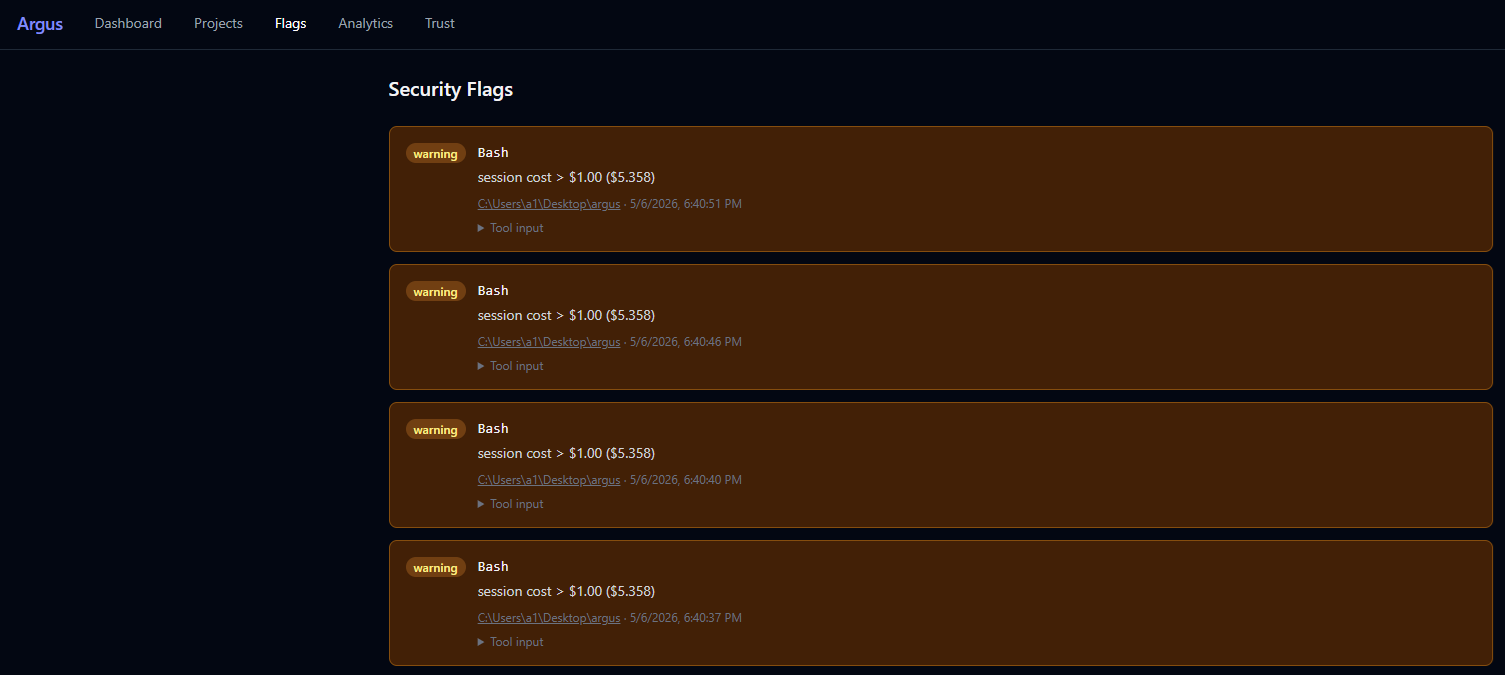
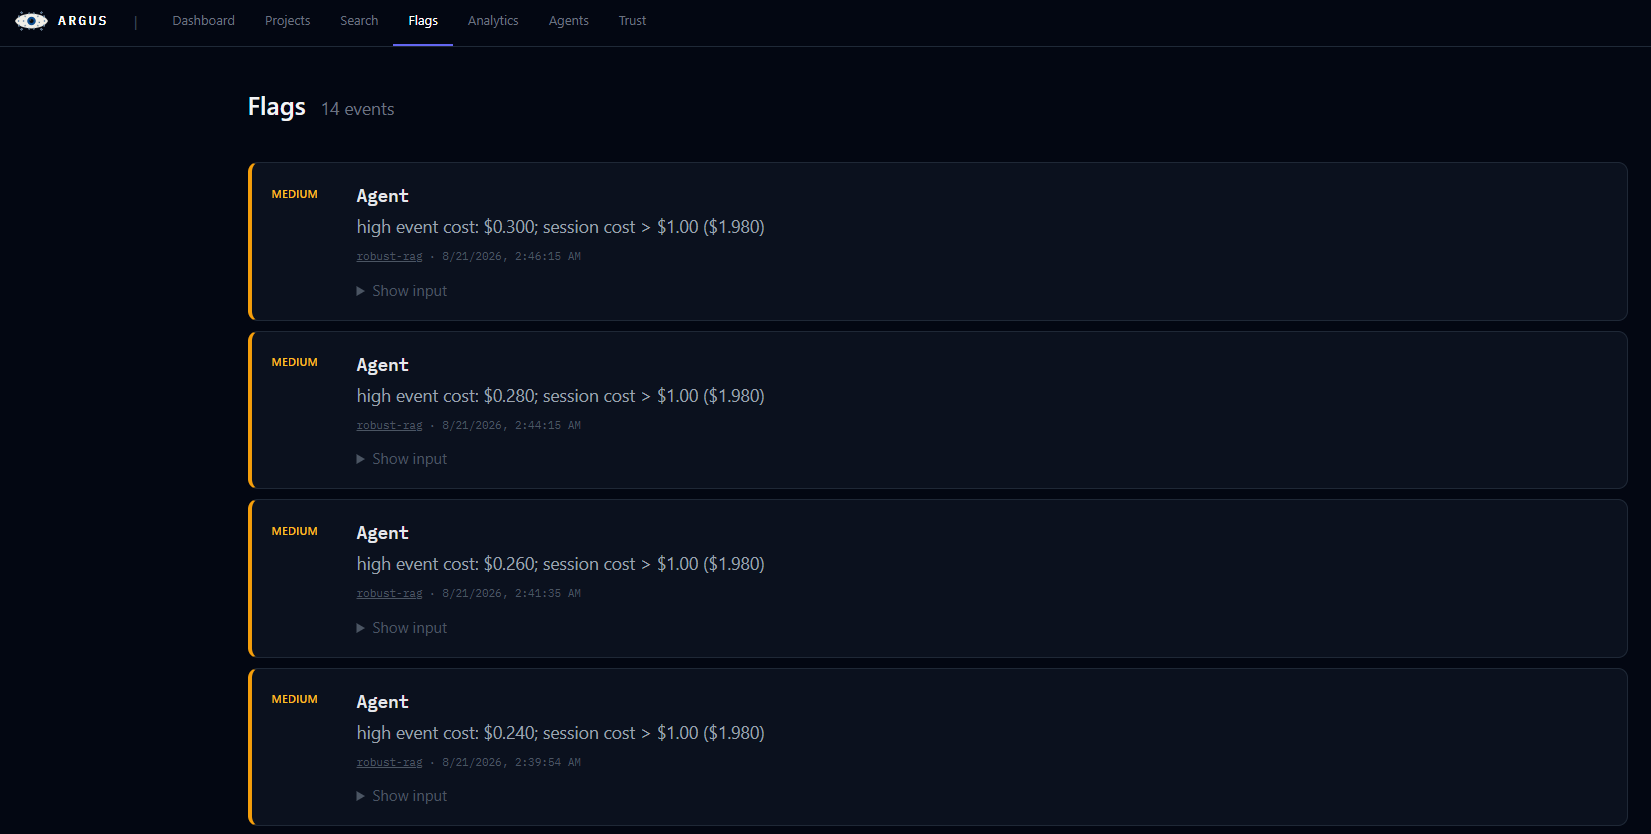
Refresh the README screenshots and document AQL
Replaces the screenshot set with current captures (dashboard, search, flags,
projects, analytics, agents, trust) and drops the stale ones — usage.png,
sessiondet.png, suggestions.png, config.png and compare.png, whose features
are now listed in text.

Adds a full AQL reference: search terms, field aliases, severity ranking, time
offsets, pipeline commands, worked examples, and the API surface. Rewrites the
flag-rules table with the real severities, and updates Quickstart for
single-process serving plus the demo database.

Claude-Session: https://claude.ai/code/session_01YZFCXMCgXthyavM5CpMp4M

diff --git a/README.md b/README.md
@@ -19,54 +19,45 @@ Argus is built for developers using Claude Code who want to know exactly what th
 ## Screenshots
 
 ### Dashboard
-Session list with per-session cost, token counts, trust scores, skill usage pills, and flagged event counts.
+Session list with per-session cost, token counts, trust scores, and flagged event counts.
 
 ![Dashboard](dashboard.png)
 
-### Projects
-All projects grouped from sessions, each showing aggregated cost, tokens, flags, trust score, and skills used.
+### Search
+Query agent telemetry with [AQL](#aql--the-argus-query-language), a pipe-based search language. Severity-coloured results, one-click example queries, and a built-in field reference.
 
-![Projects](projects.png)
+![Search](search.png)
 
 ### Security Flags
 Every flagged event across all sessions with severity, tool, reason, and a drill-down to the full tool input.
 
 ![Flags](flags.png)
 
+### Projects
+All projects grouped from sessions, each showing aggregated cost, tokens, flags, and trust score.
+
+![Projects](projects.png)
+
 ### Usage Analytics
 Horizontal bar charts for top tools, hooks fired, agent types spawned, skills invoked, and top bash commands.
 
-![Analytics](usage.png)
+![Analytics](analytics.png)
+
+### Agents
+Per-agent-type breakdown: total invocations, sessions spawned, spawn cost, and recent invocation prompts.
+
+![Agents](agents.png)
 
 ### Trust Scoring
 Per-session trust scores broken down into Safety, Behavior, and Economy components, with sortable columns.
 
 ![Trust Scoring](trust.png)
 
-### Session Detail
-Collapsible trace tree with session header (cost, trust score, token counts), agent → tool call hierarchy, and expandable before/after diffs with full JSON input/output.
-
-![Session Detail](sessiondet.png)
-
-### Agents
-Per-agent-type breakdown: total invocations, sessions spawned, spawn cost, and recent invocation prompts — grouped by agent type.
-
-![Agents](agents.png)
-
-### Project Suggestions
-LLM-enhanced optimization suggestions derived from session patterns — priority-ranked cards with actionable recommendations and copyable config snippets.
-
-![Suggestions](suggestions.png)
-
-### .claude Config Analyzer
-Cross-references registered hooks against hooks actually fired in sessions, surfaces CLAUDE.md observations, and shows global settings and custom commands.
-
-![.claude Config](config.png)
-
-### Session Comparison
-Side-by-side metric table (cost, events, flags, tokens, duration, trust) for two sessions with an overlaid cumulative cost chart.
-
-![Session Comparison](compare.png)
+### Also in the UI
+- **Session Detail** — collapsible trace tree, agent → tool call hierarchy, expandable JSON input/output, live SSE feed for active sessions
+- **Project Suggestions** — LLM-enhanced optimization suggestions derived from session patterns
+- **.claude Config Analyzer** — registered hooks cross-referenced against hooks actually fired
+- **Session Comparison** — side-by-side metrics with an overlaid cumulative cost chart
 
 ## Why
 
@@ -152,13 +143,23 @@ Event
 
 ### Flag rules
 
-| Pattern | Severity |
+Every rule carries a severity, so the flag feed can be triaged like an alert
+list rather than read as an undifferentiated pile of booleans. An event that
+trips several rules reports all of them and takes the highest severity.
+
+| Rule | Severity |
 |---|---|
-| Bash: `sudo`, `rm -rf`, `curl \| bash`, `chmod 777` | warning / critical |
-| Write outside project directory | warning |
-| Subagent with no parent session | info |
-| Single event cost > $0.10 | warning |
-| Session cost > $1.00 | warning |
+| Pipe to shell — `curl`/`wget` piped into `sh`/`bash`/`zsh`, with or without `sudo` | `critical` |
+| `dd if=… of=/dev/…`, or a redirect to `/dev/sd*` | `critical` |
+| Bash: `rm -rf` | `high` |
+| Bash: `chmod 777` (including `chmod -R 777`) | `high` |
+| Write or Edit outside the project directory | `high` |
+| Bash: `sudo` | `medium` |
+| Session cost > $1.00 | `medium` |
+| Single event cost > $0.10 | `low` |
+| Subagent spawned with no parent session | `info` |
+
+Query them with [AQL](#aql--the-argus-query-language): `severity>=high | table timestamp tool_name flag_reason`.
 
 ### Trust scoring
 
@@ -195,11 +196,132 @@ LLM enhancement via OpenRouter (`baidu/cobuddy:free`) is live — copy `.env.exa
 /projects/detail       Project detail — Sessions | Suggestions | .claude Config tabs
 /sessions/:id          Session trace tree + live SSE feed for active sessions + Suggestions tab
 /compare               Side-by-side session comparison with overlaid cost timeline
+/search                AQL search — query events by field, severity, time; stats and tables
 /flags                 Security feed — all flagged events with reason and severity
 /analytics             Usage Analytics — bar charts for tools, hooks, agents, skills, commands
 /agents                Agent activity — per-agent-type invocation counts, sessions, and recent prompts
 /trust                 Trust scoring — per-session Safety / Behavior / Economy breakdown
 ```
+
+## AQL — the Argus Query Language
+
+Agent telemetry deserves to be searched, not just browsed. AQL is a pipe-based
+query language in the shape of Splunk's SPL, but with the vocabulary of agent
+sessions: tools, subagents, skills, token cost, and flag reasons.
+
+```
+tool=Bash severity>=high | table timestamp command flag_reason
+tool=Agent | stats sum(cost_usd) as spend, count by agent_type | sort -spend
+"rm -rf" earliest=-24h
+NOT tool=Read | stats count by tool
+| stats sum(cost_usd) as cost by session | sort -cost | head 10
+```
+
+### Search terms
+
+A query is a list of terms, ANDed together, optionally followed by pipeline
+commands.
+
+| Form | Example | Meaning |
+|---|---|---|
+| `field=value` | `tool=Bash` | equals (case-insensitive) |
+| `field!=value` | `tool!=Read` | not equals |
+| `field>value` | `cost>0.10` | numeric / severity / time comparison (`>`, `<`, `>=`, `<=`) |
+| `field~value` | `reason~outside` | contains |
+| `field=val*` | `command=git*` | wildcard, `*` anywhere in the value |
+| `bareword` | `npm` | full-text across tool name, command, input, output, flag reason |
+| `"quoted phrase"` | `"rm -rf build"` | full-text, spaces preserved |
+| `NOT term` | `NOT tool=Read` | negation |
+| `flagged=true` | | booleans take `true` / `false` |
+
+`OR` is not supported yet; terms are ANDed.
+
+### Fields
+
+Canonical names come from the event row. These aliases are shorthand:
+
+| Alias | Field |
+|---|---|
+| `tool` | `tool_name` |
+| `agent` | `agent_type` |
+| `skill` | `skill_name` |
+| `session` | `session_id` |
+| `cost` | `cost_usd` |
+| `reason`, `rule` | `flag_reason` |
+| `project` | project directory name |
+| `status` | parent session status |
+| `event` | `type` |
+| `hook` | `hook_event_name` |
+
+Also queryable: `severity`, `flagged`, `timestamp`, `command`, `tool_input`,
+`tool_output`, `input_tokens`, `output_tokens`, `duration_ms`, `trust_score`.
+
+### Severity
+
+`info` < `low` < `medium` < `high` < `critical`, compared **by rank, not
+alphabetically** — `severity>=high` matches high and critical, and
+`sort -severity` puts critical on top. Severity is set by whichever rule fired:
+pipe-to-shell is `critical`, a write outside the project is `high`, cost rules
+are `low`/`medium`.
+
+### Time
+
+Time is a filter like any other. Relative offsets accept `s`, `m`, `h`, `d`:
+
+```
+earliest=-24h              events from the last day
+earliest=-30m latest=-5m   a window
+earliest=2026-08-01        ISO timestamps work too
+```
+
+### Pipeline commands
+
+| Command | Example | Notes |
+|---|---|---|
+| `stats` | `stats count by tool` | `count`, `sum(f)`, `avg(f)`, `min(f)`, `max(f)`, `dc(f)`; rename with `as`; group with `by` (multiple fields allowed) |
+| `table` | `table timestamp tool_name cost_usd` | pick columns (alias: `fields`) |
+| `sort` | `sort -cost_usd` | `-` prefix for descending; works on `as` aliases |
+| `head` | `head 20` | first N rows |
+| `dedup` | `dedup session` | first row per distinct value |
+| `where` | `stats count by tool \| where count>5` | filter after aggregation |
+
+### Worked examples
+
+```bash
+# Everything flagged, worst first
+flagged=true | sort -severity
+
+# Only the serious stuff, as a table
+severity>=high | table timestamp severity tool_name command flag_reason
+
+# Which tools does the agent actually reach for?
+| stats count by tool
+
+# Where is the money going?
+tool=Agent | stats sum(cost_usd) as spend, count by agent_type | sort -spend
+
+# Shell commands run in the last day
+tool=Bash earliest=-24h | table timestamp command project
+
+# Sessions ranked by spend
+| stats sum(cost_usd) as cost, count by session | sort -cost | head 10
+
+# Writes that landed outside the project directory
+reason~"outside project" | table timestamp tool_input project
+```
+
+### API
+
+```
+GET /api/search?q=<query>&limit=200
+GET /api/search/help            # fields, operators, commands, examples
+```
+
+A malformed query returns `400` with a readable message
+(`unknown command 'frobnicate' (available: stats, table, sort, head, dedup, where)`).
+
+Queries are executed in Python over rows fetched from the database — never
+compiled into SQL — so a user-supplied query string has no injection surface.
 
 ## Stack
 
@@ -214,15 +336,29 @@ LLM enhancement via OpenRouter (`baidu/cobuddy:free`) is live — copy `.env.exa
 ## Quickstart
 
 ```bash
-# Backend
-cd backend
-pip install fastapi uvicorn sqlmodel
-uvicorn main:app --port 7777 --reload
+# One process serves the API and the UI
+cd frontend && npm install && npm run build
+cd ../backend && pip install -r requirements.txt
+uvicorn main:app --port 7777
+```
 
-# Frontend (separate terminal)
-cd frontend
-npm install
-npm run dev
+Open <http://localhost:7777>.
+
+For frontend development, run Vite separately for hot reload — it proxies the
+API to port 7777:
+
+```bash
+cd frontend && npm run dev      # http://localhost:3000
+```
+
+### Try it without your own data
+
+`demo.db` is a synthetic database — invented sessions that exercise every view
+and every flag rule. Nothing in it comes from a real session.
+
+```bash
+python scripts/make_demo_db.py
+cd backend && ARGUS_DB=../demo.db uvicorn main:app --port 7788
 ```
 
 For LLM-enhanced suggestions, copy `.env.example` to `.env` and set `OPENROUTER_API_KEY` (free account at openrouter.ai). The backend loads it automatically on startup.
